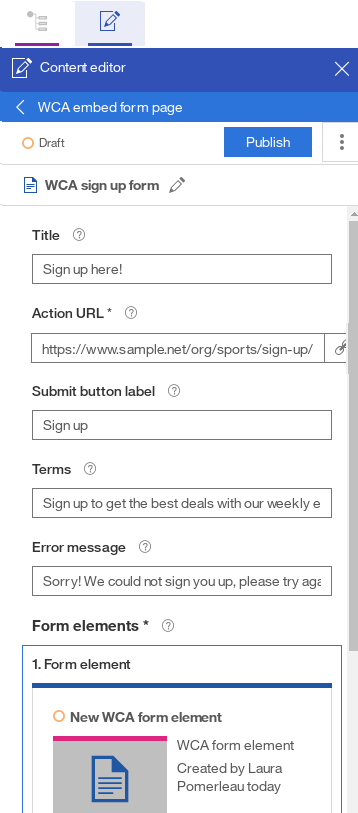
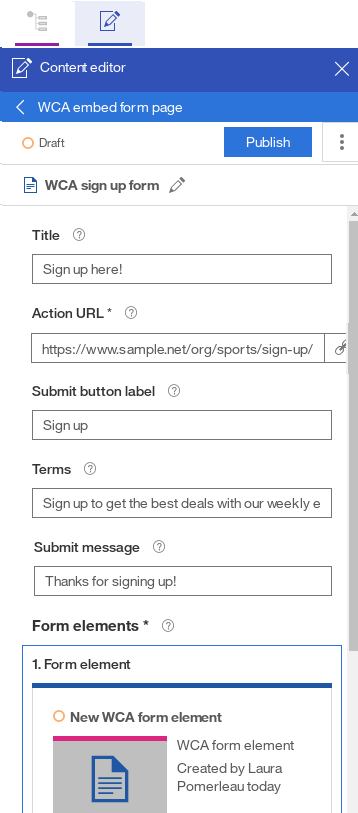
update form components/layouts and update screenshots to match

Changed region(s): [[0.1229, 0.6458, 0.8911, 0.738], [0.0922, 0.6458, 0.1536, 0.6765]]

diff --git a/site-application-files/src/app/layouts/wca-embed-form/wcaEmbedFormLayout.html b/site-application-files/src/app/layouts/wca-embed-form/wcaEmbedFormLayout.html
@@ -2,73 +2,49 @@
 	<div class="cell medium-8">
 
 		<div class="titlebar">
-			<div *ngIf="isLoading" class="spinner"></div>
-			<div *ngIf="title" wchEditable="title" class="title">{{ title }}</div>
+			<div *ngIf="title && !isSubmitted" wchEditable="title" class="title">{{ title }}</div>
 		</div>
+		
+		<p *ngIf="submitMessage && isSubmitted" wchEditable="submitMessage" class="submit-msg">{{ submitMessage }}</p>
 
-		<div *ngIf="isSubmitted && successMessage" wchEditable="successMessage" class="success" role="alert">
-			{{ successMessage }}
-        </div>
-
-		<div *ngIf="hasError && errorMessage" wchEditable="errorMessage" class="error" role="alert">
-			{{ errorMessage }}
-        </div>
-
-		<form *ngIf="!isSubmitted" [formGroup]="form" (ngSubmit)="onSubmit(form.value)">
+		<form ngNoForm [ngClass]="{'hidden':isSubmitted}" method="post" [action]="actionUrl.linkURL" target="_blank" (submit)="onSubmit()">
 
 			<!-- iterate over all the form controls -->
-			<ng-container *ngFor="let element of formData" [ngSwitch]="element.type">
+			<ng-container *ngFor="let element of formData" [ngSwitch]="true">
 
 				<!-- simple default (includes the text type) -->
-				<ng-container *ngSwitchDefault>
-					<label for="wcaForm{{element.name}}">{{ element.label }}</label>
-					<input type="{{element.type}}" formControlName="{{element.name}}" id="wcaForm{{element.name}}" placeholder="{{element.placeholder}}">
-				</ng-container>
+				<div *ngSwitchDefault>
+					<label for="wca_{{ element.name }}">{{ element.label }}</label><span *ngIf="element.isRequired" class="required-star">*</span>
+					<input type="{{ element.type }}" name="{{ element.name }}" id="wca_{{ element.name }}" 
+						[attr.required]="element.isRequired ? '' : null"
+						[attr.placeholder]="element.placeholder ? element.placeholder : null">
+				</div>
 
-				<!-- radio button groups -->
-				<ng-container *ngSwitchCase="'radio'">
-					<div class="group-label">{{ element.label }}</div>
-					<div class="radio-group">
-						<ng-container *ngFor="let option of element.options">
-							<input type="radio" formControlName="{{element.name}}" [value]="option" id="wcaForm{{option}}">
-							<label for="wcaForm{{option}}">{{ option }}</label>
-						</ng-container>
-					</div>
-				</ng-container>
+				<!-- checkbox and radio button groups -->
+				<div *ngSwitchCase="element.type === 'checkbox' || element.type === 'radio'">
+					<div class="group-label">{{ element.label }}<span *ngIf="element.isRequired" class="required-star">*</span></div>
+					<ng-container *ngFor="let option of element.options">
+						<input type="radio" [name]="element.name" [value]="option" id="wcaForm{{option}}" [attr.required]="element.isRequired ? '' : null">
+						<label for="wcaForm{{option}}">{{ option }}</label>
+					</ng-container>
+				</div>
 
 				<!-- select dropdown menus -->
-				<ng-container *ngSwitchCase="'select'">
-					<div class="group-label">{{ element.label }}</div>
-					<select formControlName="{{element.name}}">
+				<div *ngSwitchCase="element.type === 'select'">
+					<label for="wca_{{ element.name }}">{{ element.label }}</label><span *ngIf="element.isRequired" class="required-star">*</span>
+					<select name="{{ element.name }}" id="wca_{{ element.name }}" [attr.required]="element.isRequired ? '' : null">
 						<option value="">Select one</option>
-						<option *ngFor="let option of element.options" [value]="option">{{ option }}</option>
+						<option *ngFor="let option of element.options" value="{{ option }}">{{ option }}</option>
 					</select>
-				</ng-container>
-
-				<!-- checkbox groups -->
-				<ng-container *ngSwitchCase="'checkbox'" [formArrayName]="element.name">
-					<div class="group-label">{{ element.label }}</div>
-					<ng-container *ngFor="let option of element.formArray.controls; let i=index" [formGroupName]="i">
-						<input type="checkbox" formControlName="checked" id="wcaForm{{option.controls.label.value}}">
-						<label for="wcaForm{{option.controls.label.value}}">{{ option.controls.label.value }}</label>
-					</ng-container>
-				</ng-container>
+				</div>
 
 			</ng-container>
-		
+
 			<p *ngIf="terms" wchEditable="terms" class="terms">{{ terms }}</p>
 
-			<button type="submit" [disabled]="!form.valid || isLoading" *ngIf="submitButtonLabel" wchEditable="submitButtonLabel" class="button button-dark expanded">
-				{{ submitButtonLabel }}
-			</button>
+			<input *ngIf="submitButtonLabel" type="submit" value="{{ submitButtonLabel }}" class="button button-dark expanded">
 
 		</form>
-
-		<div class="wca-debug">
-			<!-- Remove this before moving to production -->
-			<p>View the form builder values here:</p>
-			<div>{{ form.value | json}}</div>
-		</div>
 
 	</div>
 </div>

diff --git a/site-application-files/src/app/layouts/wca-embed-form/wcaEmbedFormLayout.ts b/site-application-files/src/app/layouts/wca-embed-form/wcaEmbedFormLayout.ts
@@ -27,17 +27,18 @@ export class WcaEmbedFormLayoutComponent extends TypeWcaEmbedFormComponent {
 
 	/* holds an array of form data created based on the rendering context, each object has this format:
 		{
-			name: 'EMAIL',                       // the name attribute of the form element from WCA
-			type: 'text',                        // the type attrivute of the form element from WCA, one of text | email | password | radio | checkbox | select
-			label: 'Email address',              // the label for the form element which shows in the UI
-			value: '',                           // the default value for the form element (often an empty string)
-			placeholder: 'name@domain.com',      // the placeholder attribute of the form element
-			options: ['Clothes','No']            // for radio, select, and checkbox types: an array of string for each radio/option/checkbox value in a group
+			name: 'EMAIL',                   // the name attribute of the form element from WCA
+			type: 'text',                    // the type attrivute of the form element from WCA, one of text | email | password | radio | checkbox | select
+			label: 'Email address',          // the label for the form element which shows in the UI
+			value: '',                       // the default value for the form element (often an empty string)
+			placeholder: 'name@domain.com',  // the placeholder attribute of the form element
+			options: ['Clothes','No']        // for radio, select, and checkbox types: an array of string for each radio/option/checkbox value in a group
 		}
 	*/
 	formData: any = [];
 
 	// the angular form to display, based on the data
+	// this is built, but unused, as WCA does not support CORS for AJAX form submission
 	form: FormGroup;
 
 	constructor(private http: HttpClient, private fb: FormBuilder) {
@@ -48,6 +49,11 @@ export class WcaEmbedFormLayoutComponent extends TypeWcaEmbedFormComponent {
 
 		// listen for changes in the form
 		this.safeSubscribe(this.onFormElements, () => this.createForm() );
+	}
+
+	// update status on submit
+	onSubmit() {
+		this.isSubmitted = true;
 	}
 
 	// take the formElements from rendering context and transform them into the simple formData object
@@ -69,8 +75,7 @@ export class WcaEmbedFormLayoutComponent extends TypeWcaEmbedFormComponent {
 				placeholder: element.placeholder.value || '',
 				options: element.option.values || [],
 				formArray: null,
-				isRequired: element.isRequired.value,
-				isEmail: element.isEmail.value,
+				isRequired: element.isRequired.value
 			};
 
 			// checkbox groups should be a form array
@@ -87,7 +92,7 @@ export class WcaEmbedFormLayoutComponent extends TypeWcaEmbedFormComponent {
 				if(formObj.isRequired) {
 					validators.push(Validators.required);
 				}
-				if(formObj.isEmail) {
+				if(formObj.type === 'email') {
 					validators.push(Validators.email);
 				}
 				
@@ -109,7 +114,8 @@ export class WcaEmbedFormLayoutComponent extends TypeWcaEmbedFormComponent {
 	}
 
 	// submit the form to the given POST action URL
-	onSubmit(formValues: any) {
+	// not yet possible with WCA
+	onSubmitAjax(formValues: any) {
 		// start loading the form submission
 		this.isLoading = true;
 		this.hasError = false;

diff --git a/site-application-files/src/app/components/wca-embed-form/abstractWcaEmbedFormComponent.ts b/site-application-files/src/app/components/wca-embed-form/abstractWcaEmbedFormComponent.ts
@@ -66,7 +66,7 @@ abstract class AbstractWcaEmbedFormComponent extends AbstractRenderingComponent 
      *   "label": "Submit button label"
      * }
      */
-    @RenderingContextBinding('text.submitButtonLabel', '')
+    @RenderingContextBinding('text.submitButtonLabel', 'Submit')
     readonly onSubmitButtonLabel: Observable<string>;
 
     /*
@@ -96,35 +96,18 @@ abstract class AbstractWcaEmbedFormComponent extends AbstractRenderingComponent 
      * {
      *   "elementType": "text",
      *   "helpText": "This message will be shown to the user upon successful submission of the form.",
-     *   "key": "successMessage",
+     *   "key": "submitMessage",
      *   "label": "Success message"
      * }
      */
-    @RenderingContextBinding('text.successMessage', '')
-    readonly onSuccessMessage: Observable<string>;
+    @RenderingContextBinding('text.submitMessage', '')
+    readonly onSubmitMessage: Observable<string>;
 
     /*
-     * @see #onSuccessMessage
+     * @see #onSubmitMessage
      */
     @RenderingContextBinding()
-    readonly successMessage: string;
-
-    /*
-     * {
-     *   "elementType": "text",
-     *   "helpText": "This message will be shown to the user if there is an error submitting the form.",
-     *   "key": "errorMessage",
-     *   "label": "Error message"
-     * }
-     */
-    @RenderingContextBinding('text.errorMessage', '')
-    readonly onErrorMessage: Observable<string>;
-
-    /*
-     * @see #onErrorMessage
-     */
-    @RenderingContextBinding()
-    readonly errorMessage: string;
+    readonly submitMessage: string;
 
     /*
      * {

diff --git a/site-application-files/src/app/layouts/wca-embed-form/wcaEmbedFormLayout.scss b/site-application-files/src/app/layouts/wca-embed-form/wcaEmbedFormLayout.scss
@@ -15,8 +15,17 @@
 		font-family: 'Vidaloka', georgia, 'Times New Roman', serif;
 	}
 
-	.wca-debug {
-		margin-top: 50px;
+	form.hidden {
+		display: none;
+	}
+
+	label {
+		display: inline;
+	}
+
+	.required-star {
+		color: #cc4b37;
+		margin-left: 5px;
 	}
 
 	.group-label {
@@ -26,10 +35,6 @@
 		font-weight: normal;
 		line-height: 1.8;
 		color: #0a0a0a;
-	}
-
-	.radio-button {
-		float: left;
 	}
 
 	select, option {
@@ -42,35 +47,9 @@
 		font-size: 0.8em;
 	}
 
-	.success {
+	.submit-msg {
 		font-weight: bold;
 		margin-bottom: 20px;
+		text-align: center;
 	}
-
-	.error {
-		color: #cc4b37;
-		font-weight: bold;
-		margin-bottom: 20px;
-	}
-}
-
-.spinner {
-	border: 5px solid black;
-	border-radius: 50%;
-	border-top: 5px solid white;
-	width: 25px;
-	height: 25px;
-	-webkit-animation: spin 2s linear infinite;
-	animation: spin 2s linear infinite;
-	margin-right: 20px;
-}
-
-@-webkit-keyframes spin {
-  0% { -webkit-transform: rotate(0deg); }
-  100% { -webkit-transform: rotate(360deg); }
-}
-
-@keyframes spin {
-  0% { transform: rotate(0deg); }
-  100% { transform: rotate(360deg); }
 }

diff --git a/site-application-files/src/app/layouts/wca-iframe-form/wcaIframeFormLayout.ts b/site-application-files/src/app/layouts/wca-iframe-form/wcaIframeFormLayout.ts
@@ -22,13 +22,8 @@ export class WcaIframeFormLayoutComponent extends TypeWcaIframeFormComponent {
 		super();    
 
 		// resize the iframe based on the content item height and width elements
-		this.safeSubscribe(this.onHeight, () => this.resizeIFrame() );
-		this.safeSubscribe(this.onWidth, () => this.resizeIFrame() );
-	}
-
-	resizeIFrame() {
-		this.iframeHeight = this.height ? this.height : '100%';
-		this.iframeWidth = this.width ? this.width : '100%';
+		this.safeSubscribe(this.onHeight, (h) => this.iframeHeight = h ? h : '100%' );
+		this.safeSubscribe(this.onWidth, (w) => this.iframeWidth = w ? w : '100%' );
 	}
 
 }

diff --git a/site-application-files/src/app/layouts/wca-iframe-form/wcaIframeFormLayout.scss b/site-application-files/src/app/layouts/wca-iframe-form/wcaIframeFormLayout.scss
@@ -2,4 +2,6 @@ iframe {
 	resize: both;
 	max-width: 100%;
 	border: none;
+	margin: 0 auto;
+	display: block;
 }

diff --git a/README.md b/README.md
@@ -113,7 +113,7 @@ The sample form information:
 
 3. [Create a new page](https://developer.ibm.com/customer-engagement/tutorials/creating-pages-website/) or edit an existing one.
 
-4. Create a new **WCA embed form** content item on the page:
+4. Create a new **WCA embed form** content item on the page. **Note**: Use `http` for the "Action URL", so WCA will accept the request:
 
 ![configure embed](/doc/images/configureEmbed.png)
 
